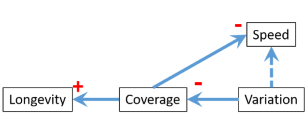
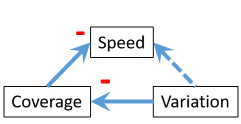
removed mention of 'Longevity' dimension

Changed region(s): [[0.0, 0.1795, 1.0, 0.9744], [0.4066, 0.6154, 0.4647, 0.6923]]

diff --git a/_drafts/2016-11-22-dimensions-of-tests-model.md b/_drafts/2016-11-22-dimensions-of-tests-model.md
@@ -21,17 +21,12 @@ Focusing on technical considerations only leads us to make blind trade-offs: we'
 
 The dimensions I think are most important are:  
  * **Speed**: How quickly does the test execute? How long do we have to wait to get the feedback the test gives us?   
- * **Coverage**:  How much of the system (vertically) does the test exercise? In general, the higher the coverage, the more confident we are about the behaviour of the system as whole. Also known as *scope* or *depth*.
- * **Longevity**: For how long do we expect the information provided by this test to be of value? In general, the longevity of a test is related to how many people are interested in the information provided by the test (audience).  
  * **Variation**:  How many near-identical variations of the test are there? E.g. if a test has lots of inputs, there may be very many combinations of inputs, with each combination requiring its own test. ([This article](http://blog.thecodewhisperer.com/permalink/integrated-tests-are-a-scam-part-1) is useful for more on this idea.)
 
-In an ideal world, every test would execute instantaneously, cover the entire system, and would be valuable forever. A suite of such tests would also cover every combination of inputs and states as well. Therefore, the ideal test would score very highly in all dimensions. Unfortunately this is not possible in the real world since some of the dimensions have an inverse affect on others. The image below is a causal loop diagram showing the causal relationships between dimensions.
 
 ![Causal Loop Diagram](dimensions-of-tests-causal-loop.png)
 
  * An increase in *Coverage* generally leads to a decrease in *speed of feedback*. This is because the more of the system covered by the test, the longer the test takes to run.   
- * An increase in *Coverage* generally leads to an increase in *Longevity*. This is because tests which exercise most or all of the system are generally less coupled to the implementation, and are written in higher-level (domain) language which will not change frequently, and is also valuable to a very wide audience. Inversely, lower Coverage leads to lower *Longevity* since low-coverage tests are more coupled to low-level component design, which changes more frequently.
- * An increase in *Variation* generally leads to a decrease in coverage. This is because with high variation, we will have a large number of tests. They must be low-coverage in the interests of time.
 
 As the model shows, no test can ever maximise for all dimensions. Any test will compromise on some of the dimensions. We therefore need to choose which dimension to prioritise for a test. This is the trade-off. Each test should prioritise one of the dimensions. The trade-off of priorities should be based on what feedback about the system we need. 
 
